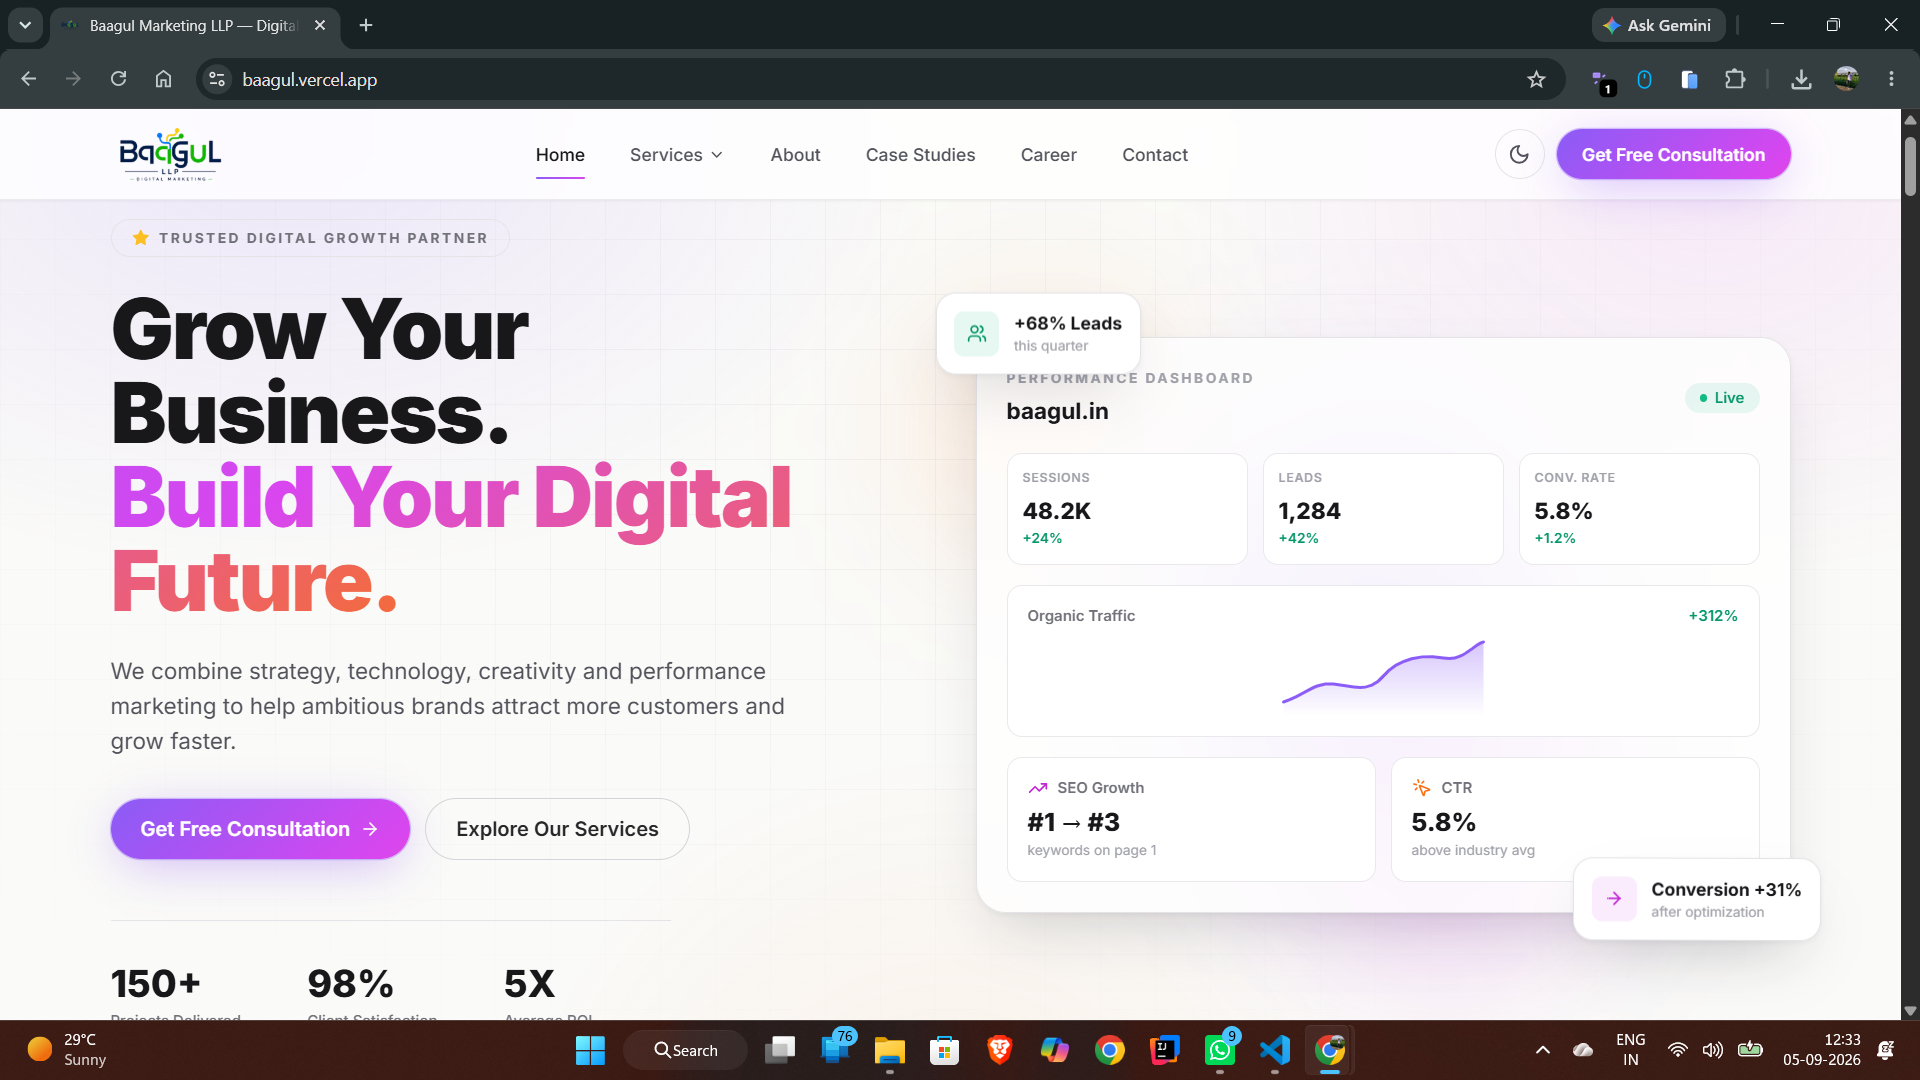
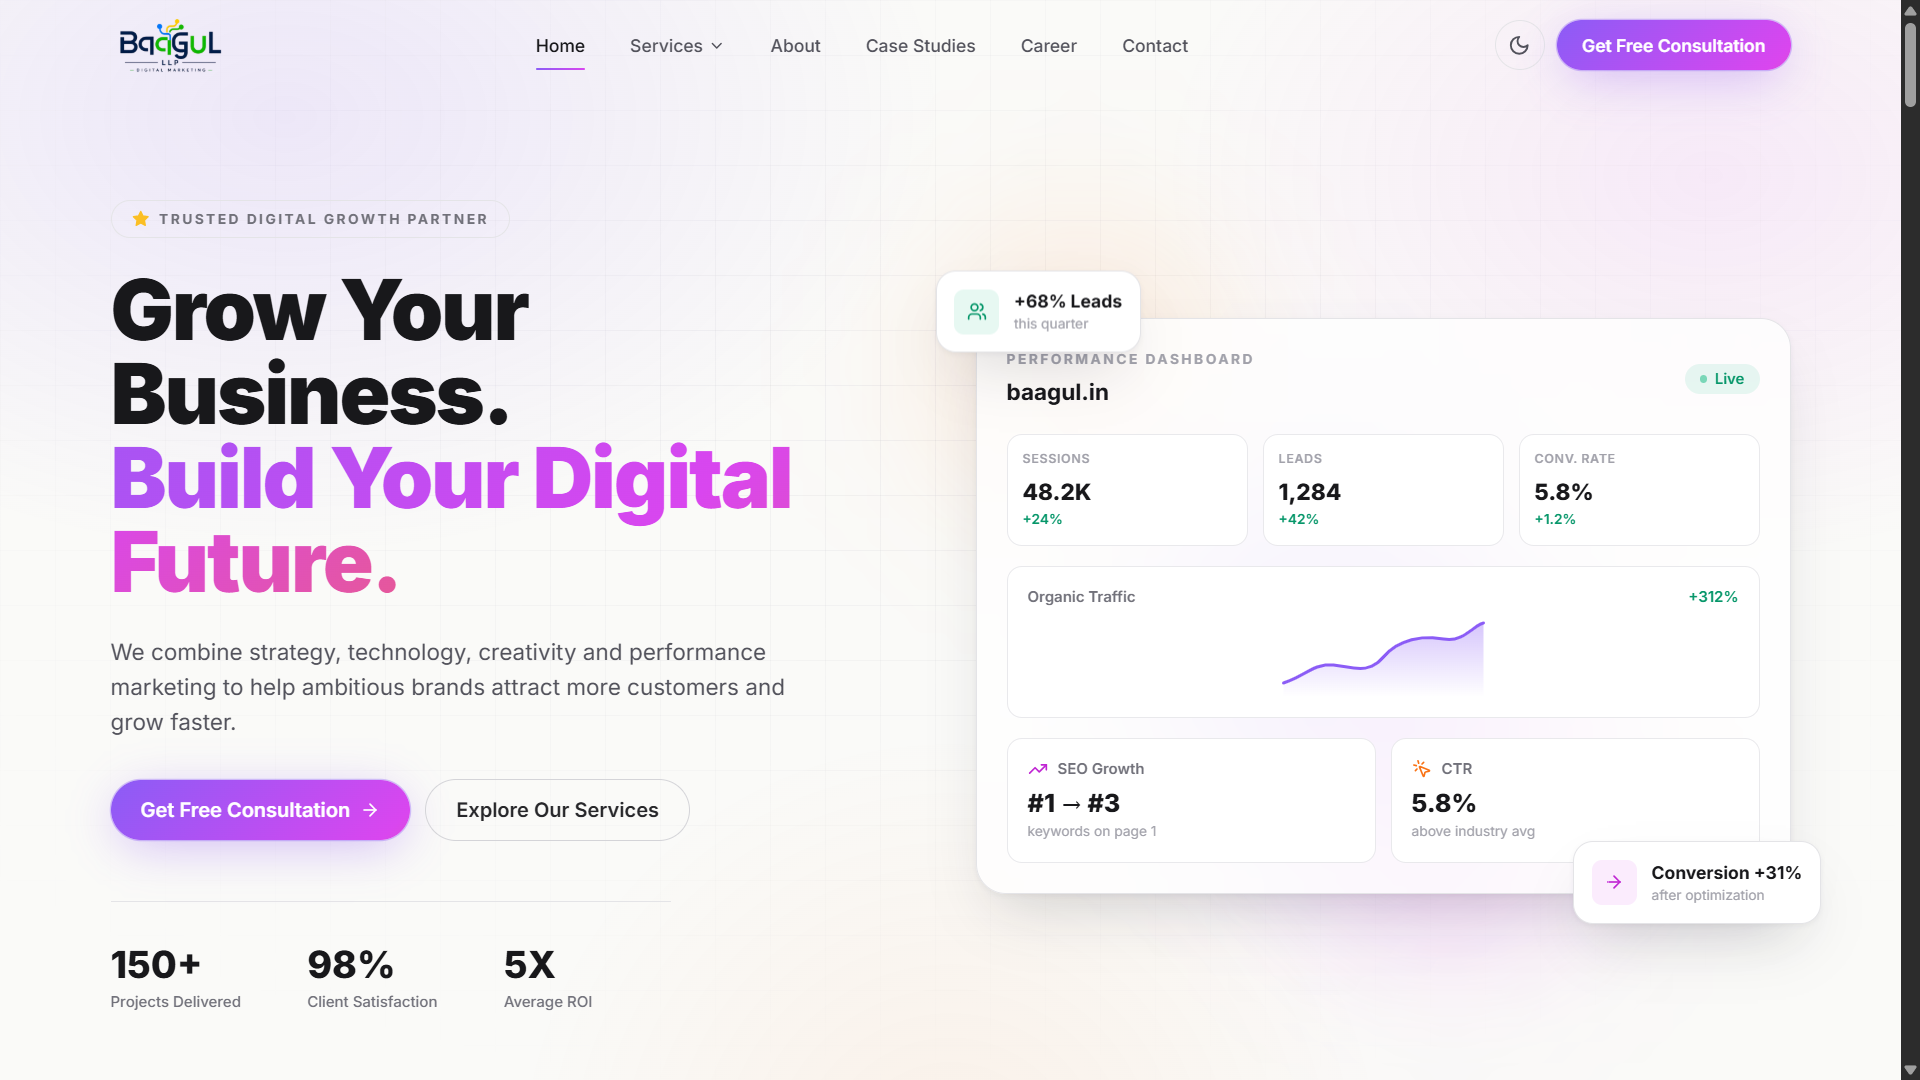
Replace webp project images with png format

diff --git a/index.html b/index.html
@@ -65,14 +65,13 @@
           <img src="assets/img/minarul_bg-tech.png" class="img-fluid my-img" alt="">
         </div>
         <div class="col-lg-8 pt-4 pt-lg-0 content" data-aos="fade-left">
-          <h3>Front-End Developer</h3>
+          <h3>Full-Stack Developer</h3>
           <p class="fst-italic">
-            Hardworking and dedicated BCA student skilled in web development using HTML, CSS, JavaScript, Bootstrap and
-            good knowledge in JAVA. Experienced in creating user-friendly and secure web applications, including
-            projectslike
-            Bankist, Nproduct, and IdeaLab. Skilled at solving problems, working in teams, and building
-            responsivedesigns.
-            Awarded for achievements in web design and academics, always eager to learn and grow.
+            A dedicated Full-Stack Developer skilled in JavaScript (ES6+), HTML, CSS, React.js, and modern web
+            technologies for the frontend, along with Node.js, Express, and MySQL for the backend. Experienced in
+            backend integration, Git, and collaborative software development, building responsive and scalable web
+            applications. Currently working at Elytespark Innovation Pvt Ltd and proficient in design tools like
+            Photoshop and Figma. Always eager to learn, solve problems, and deliver pixel-perfect user experiences.
           </p>
           <div class="row">
             <div class="col-lg-6">
@@ -421,12 +420,12 @@
         </div>
         <div class="col-lg-4 col-md-6 portfolio-item filter-21-24">
           <div class="portfolio-wrap">
-            <img src="assets/img/projects/bank1.webp" class="img-fluid" alt="Banking App Project">
+            <img src="assets/img/projects/bank1.png" class="img-fluid" alt="Banking App Project">
             <div class="portfolio-info">
               <h4>Banking Application</h4>
               <p>Frontend Funtional Application </p>
               <div class="portfolio-links">
-                <a href="assets/img/projects/bank1.webp" data-gallery="portfolioGallery" class="portfolio-lightbox"
+                <a href="assets/img/projects/bank1.png" data-gallery="portfolioGallery" class="portfolio-lightbox"
                   title="A Javascript funtional application with multiple banking related features like money transfer, loan request, account create/close."><i
                     class="bx bx-plus"></i></a>
                 <a href="https://mdmustafaalam.github.io/Banking/" target="_blank" class="github"
@@ -437,12 +436,12 @@
         </div>
         <div class="col-lg-4 col-md-6 portfolio-item filter-web">
           <div class="portfolio-wrap">
-            <img src="assets/img/projects/elytespark.webp" class="img-fluid" alt="ElyteSpark Website">
+            <img src="assets/img/projects/elytespark.png" class="img-fluid" alt="ElyteSpark Website">
             <div class="portfolio-info">
               <h4>ElyteSpark: Edutech Platform</h4>
               <p>Modern and Responsive Website for Internship & Training Programs</p>
               <div class="portfolio-links">
-                <a href="assets/img/projects/elytespark.webp" 
+                <a href="assets/img/projects/elytespark.png" 
                    data-gallery="portfolioGallery" 
                    class="portfolio-lightbox"
                    title="ElyteSpark is a professional platform designed to showcase training programs, internships, and industry collaborations such as IBM partnership programs. The website provides clear information about courses, program structure, locations, and career opportunities with a modern responsive design.">
@@ -458,12 +457,12 @@
         </div>
         <div class="col-lg-4 col-md-6 portfolio-item filter-web">
           <div class="portfolio-wrap">
-            <img src="assets/img/projects/lumiere-react.webp" class="img-fluid" alt="Lumière React Landing Page">
+            <img src="assets/img/projects/lumiere-react.png" class="img-fluid" alt="Lumière React Landing Page">
             <div class="portfolio-info">
               <h4>Lumière: React Landing Page</h4>
               <p>Elegant and modern landing page built using React with reusable components</p>
               <div class="portfolio-links">
-                <a href="assets/img/projects/lumiere-react.webp"
+                <a href="assets/img/projects/lumiere-react.png"
                    data-gallery="portfolioGallery"
                    class="portfolio-lightbox"
                    title="Lumière is a modern creative landing page built with React. The project focuses on component-based architecture, responsive design, smooth layout structure, and elegant UI aesthetics. It demonstrates how React components can be reused to build scalable and visually appealing landing pages.">
@@ -481,12 +480,12 @@
         </div>
         <div class="col-lg-4 col-md-6 portfolio-item filter-web">
           <div class="portfolio-wrap">
-            <img src="assets/img/projects/youtube-clone.webp" class="img-fluid" alt="YouTube Clone Website">
+            <img src="assets/img/projects/youtube-clone.png" class="img-fluid" alt="YouTube Clone Website">
             <div class="portfolio-info">
               <h4>YouTube Clone: Video Streaming UI</h4>
               <p>Responsive YouTube-style interface built using HTML, CSS, and JavaScript</p>
               <div class="portfolio-links">
-                <a href="assets/img/projects/youtube-clone.webp"
+                <a href="assets/img/projects/youtube-clone.png"
                    data-gallery="portfolioGallery"
                    class="portfolio-lightbox"
                    title="A fully responsive YouTube Clone built with HTML, CSS, and JavaScript. The project features a modern video streaming layout with sidebar navigation, search bar, video thumbnails, and a detailed video viewing page including title, views, like/dislike buttons, comments section, and related videos. This project demonstrates frontend UI development and responsive layout design.">
@@ -504,28 +503,26 @@
         </div>
         <div class="col-lg-4 col-md-6 portfolio-item filter-21-24">
           <div class="portfolio-wrap">
-            <img src="assets/img/projects/mainBangal.webp" class="img-fluid" alt="HIDCO Landing Page Application">
+            <img src="assets/img/projects/mainBangal.png" class="img-fluid" alt="HIDCO Landing Page Application">
             <div class="portfolio-info">
               <h4>HIDCO: Government Projects Page</h4>
               <p>Fully Functional and Responsive Website</p>
               <div class="portfolio-links">
-                <a href="assets/img/projects/mainBangal.webp" data-gallery="portfolioGallery" class="portfolio-lightbox"
+                <a href="assets/img/projects/mainBangal.png" data-gallery="portfolioGallery" class="portfolio-lightbox"
                   title="West Bengal Housing Infrastructure Development Corporation (WBHIDCO) plans and executes development projects in the entire 6,000–7,000 hectare area in Rajarhat, Kolkata, west Bengal. The erstwhile planning area of WBHIDCO is divided into four Action Areas ie. Action Area I , Action Area–II , Action Area–III. There is another area in between Action Area I & II is Central Business District (CBD)"><i
                     class="bx bx-plus"></i></a>
-                <a href="https://hidco.wuaze.com/" target="_blank" class="github"
-                  aria-label="GitHub Government Project"><i class="bx bx-link"></i></a>
               </div>
             </div>
           </div>
         </div>
         <div class="col-lg-4 col-md-6 portfolio-item filter-21-24">
           <div class="portfolio-wrap">
-            <img src="assets/img/projects/nproduct.webp" class="img-fluid" alt="Nproduct E-commerce Website">
+            <img src="assets/img/projects/nproduct.png" class="img-fluid" alt="Nproduct E-commerce Website">
             <div class="portfolio-info">
               <h4>Nproduct: An E-commerce Website</h4>
               <p>Fully Functional E-commerce Website</p>
               <div class="portfolio-links">
-                <a href="assets/img/projects/nproduct.webp" data-gallery="portfolioGallery" class="portfolio-lightbox"
+                <a href="assets/img/projects/nproduct.png" data-gallery="portfolioGallery" class="portfolio-lightbox"
                   title="I contributed to Nproduct, an innovative e-commerce platform, by focusing on frontend development. I implemented a responsive user interface, ensuring a seamless shopping experience. Technologies used include HTML, CSS, JavaScript, and Bootstrap."><i
                     class="bx bx-plus"></i></a>
                 <a href="https://mdmustafaalam.github.io/E-Commerce/" target="_blank" class="github"
@@ -536,12 +533,12 @@
         </div>
         <div class="col-lg-4 col-md-6 portfolio-item filter-21-24">
           <div class="portfolio-wrap">
-            <img src="assets/img/projects/idealab.webp" class="img-fluid" alt="IDEAlab Landing Page">
+            <img src="assets/img/projects/idealab.png" class="img-fluid" alt="IDEAlab Landing Page">
             <div class="portfolio-info">
               <h4>IDEAlab</h4>
               <p>Web Application</p>
               <div class="portfolio-links">
-                <a href="assets/img/projects/idealab.webp" data-gallery="portfolioGallery" class="portfolio-lightbox"
+                <a href="assets/img/projects/idealab.png" data-gallery="portfolioGallery" class="portfolio-lightbox"
                   title="I contributed to IDEAlab, an innovative AICTE platform, by focusing on frontend development. I implemented a responsive user interface, ensuring a seamless experience. Technologies used include HTML, CSS, JavaScript, and Bootstrap."><i
                     class="bx bx-plus"></i></a>
                 <a href="https://mdmustafaalam.github.io/IdeaLab/" target="_blank" class="github"
@@ -552,35 +549,33 @@
         </div>
         <div class="col-lg-4 col-md-6 portfolio-item filter-21-24">
           <div class="portfolio-wrap">
-            <img src="assets/img/projects/innovators.webp" class="img-fluid" alt="Final Year Projects">
+            <img src="assets/img/projects/innovators.png" class="img-fluid" alt="Final Year Projects">
             <div class="portfolio-info">
               <h4>Final Year College Projects</h4>
               <p>Landing Page for Agriculture</p>
               <div class="portfolio-links">
-                <a href="assets/img/projects/innovators.webp" data-gallery="portfolioGallery" class="portfolio-lightbox"
+                <a href="assets/img/projects/innovators.png" data-gallery="portfolioGallery" class="portfolio-lightbox"
                   title="
                 Designed and developed the landing page for Agriculture, a leading pharma company. The site features a modern design, intuitive navigation, and responsive layout, showcasing the company's services and expertise. "><i
                     class="bx bx-plus"></i></a>
-                <a href="#!" target="_blank" class="github" aria-label="GitHub Final Year Project"><i
-                    class="bx bx-link"></i></a>
               </div>
             </div>
           </div>
         </div>
         <div class="col-lg-4 col-md-6 portfolio-item filter-21-24">
           <div class="portfolio-wrap">
-            <img src="assets/img/projects/busyAge.webp" class="img-fluid" alt="BusyAge Service Company Application">
+            <img src="assets/img/projects/busyAge.png" class="img-fluid" alt="BusyAge Service Company Application">
             <div class="portfolio-info">
               <h4>BusyAge: Service Company Landing Page</h4>
               <p>Fully Functional Website</p>
               <div class="portfolio-links">
-                <a href="assets/img/projects/busyAge.webp" data-gallery="portfolioGallery" class="portfolio-lightbox"
+                <a href="assets/img/projects/busyAge.png" data-gallery="portfolioGallery" class="portfolio-lightbox"
                   title="BusyAge is not a one-size-fits-all company. We are
                   a modular, role-based, impact-driven platform designed for those who are ready to take
                   responsibility, not just tasks. Whether you’re an individual seeking growth, a team with a
                   shared mission, or an institution with a vision, we serve you by enabling you"><i
                     class="bx bx-plus"></i></a>
-                <a href="https://busyage.wuaze.com/" target="_blank" class="github"
+                <a href="https://www.busyage.in/" target="_blank" class="github"
                   aria-label="GitHub BusyAge Company"><i class="bx bx-link"></i></a>
               </div>
             </div>
@@ -588,12 +583,12 @@
         </div>
         <div class="col-lg-4 col-md-6 portfolio-item filter-21-24">
           <div class="portfolio-wrap">
-            <img src="assets/img/projects/ganiPortfolio.webp" class="img-fluid" alt="clients Portfolio Page">
+            <img src="assets/img/projects/ganiPortfolio.png" class="img-fluid" alt="clients Portfolio Page">
             <div class="portfolio-info">
               <h4>Portfolio: Client Customize Design</h4>
               <p>Fully Functional and JavaScript Website</p>
               <div class="portfolio-links">
-                <a href="assets/img/projects/ganiPortfolio.webp" data-gallery="portfolioGallery"
+                <a href="assets/img/projects/ganiPortfolio.png" data-gallery="portfolioGallery"
                   class="portfolio-lightbox"
                   title="Candy Pro is a leading asset provider, powered by the McHorse Blockbuster mod, to YouTube content creators. We offer both free and premium Minecraft Blockbuster, Chameleon & SNB models in 2D and 3D, helping creators enhance their videos with high-quality assets."><i
                     class="bx bx-plus"></i></a>
@@ -605,26 +600,25 @@
         </div>
         <div class="col-lg-4 col-md-6 portfolio-item filter-21-24">
           <div class="portfolio-wrap">
-            <img src="assets/img/projects/admin.webp" class="img-fluid" alt="Admin Panel Website">
+            <img src="assets/img/projects/admin.png" class="img-fluid" alt="Admin Panel Website">
             <div class="portfolio-info">
               <h4>Admin Panel </h4>
               <p>Responsive Admin Panel</p>
               <div class="portfolio-links">
-                <a href="assets/img/projects/admin.webp" data-gallery="portfolioGallery" class="portfolio-lightbox"
+                <a href="assets/img/projects/admin.png" data-gallery="portfolioGallery" class="portfolio-lightbox"
                   title="Custom responsive admin panel design"><i class="bx bx-plus"></i></a>
-                <a href="#!" target="_blank" class="github" aria-label="GitHub Admin"><i class="bx bx-link"></i></a>
               </div>
             </div>
           </div>
         </div>
         <div class="col-lg-4 col-md-6 portfolio-item filter-21-24">
           <div class="portfolio-wrap">
-            <img src="assets/img/projects/cal.webp" class="img-fluid" alt="Windows Calculator App">
+            <img src="assets/img/projects/cal.png" class="img-fluid" alt="Windows Calculator App">
             <div class="portfolio-info">
               <h4>Windows Calculator</h4>
               <p>Windows Calculator Clone</p>
               <div class="portfolio-links">
-                <a href="assets/img/projects/cal.webp" data-gallery="portfolioGallery" class="portfolio-lightbox"
+                <a href="assets/img/projects/cal.png" data-gallery="portfolioGallery" class="portfolio-lightbox"
                   title="Design and Developed windows Calculator clone using HTML, CSS & JS"><i
                     class="bx bx-plus"></i></a>
                 <a href="https://mdmustafaalam.github.io/MkCalc/" target="_blank" class="github"
